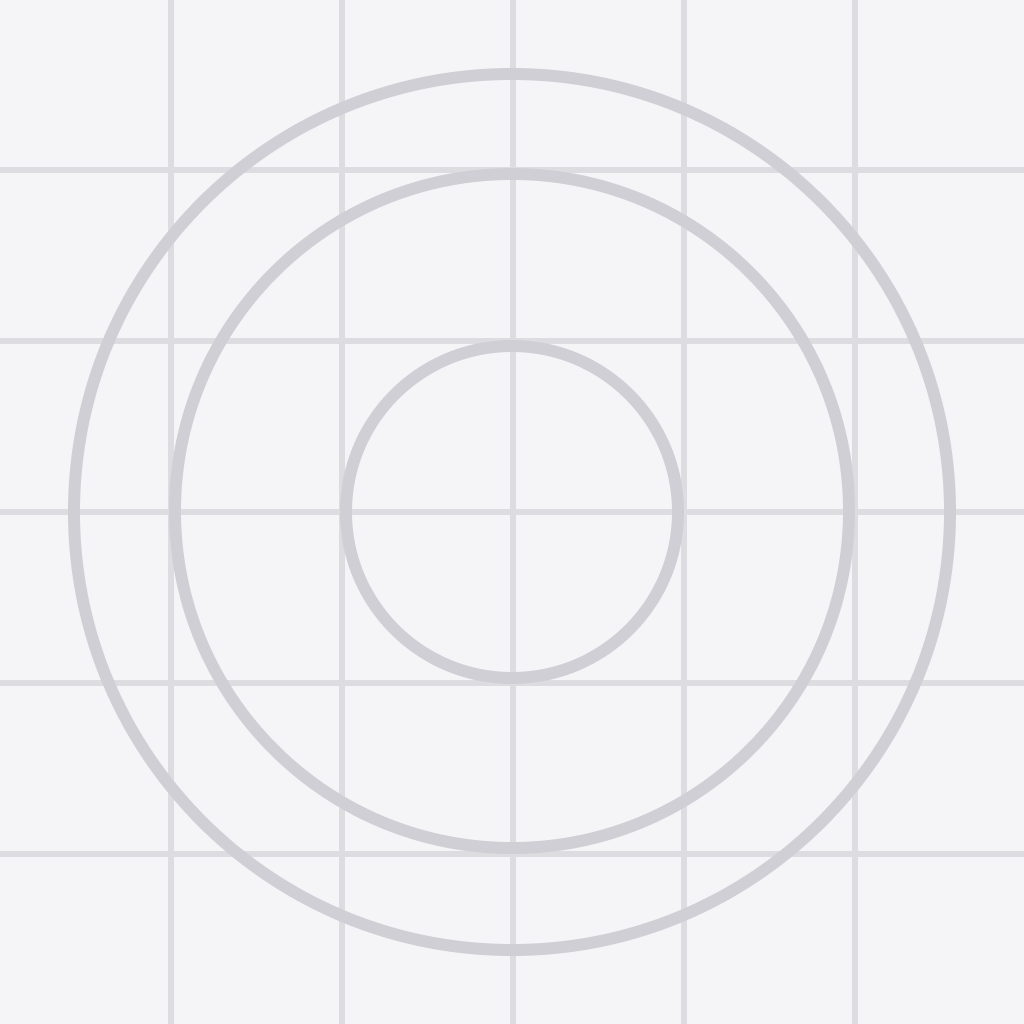
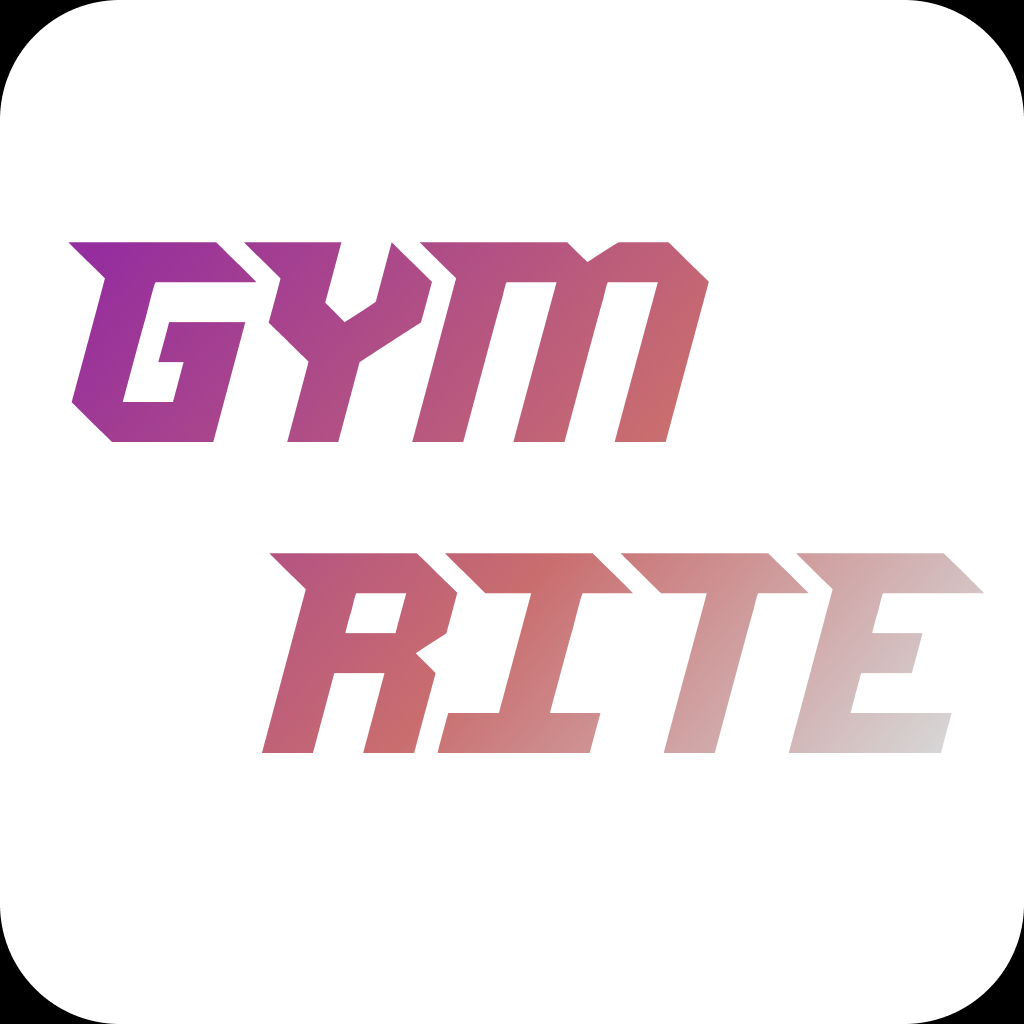
Fully migrated to SQLite. All references to supabase should be removed.

diff --git a/app/workout.js b/app/workout.js
@@ -6,7 +6,8 @@ import StopwatchTimer, {
 import Exercise from '../components/Exercise';
 import { Entypo, } from '@expo/vector-icons'
 import { useLocalSearchParams, router, Link } from 'expo-router';
-import { supabase } from '../utils/supabase'
+import { RFValue } from 'react-native-responsive-fontsize'
+import * as SQLite from 'expo-sqlite'
 
 
 const workout = () => {
@@ -14,6 +15,7 @@ const workout = () => {
   const { workoutName, exerciseList, workoutId } = useLocalSearchParams();
   const [exerciseData, setExerciseData] = useState([]);
   const exercise_list = JSON.parse(exerciseList);
+  const currentDate = new Date();
 
   const onScreenLoad = () => {
     stopwatchTimerRef.current?.play();
@@ -36,14 +38,22 @@ const workout = () => {
   };
 
   async function finishWorkout() {
+    try {
+      const db = await SQLite.openDatabaseAsync('GymRite')
+      await db.execAsync(`
+        CREATE TABLE IF NOT EXISTS workout_history (
+          id INTEGER PRIMARY KEY AUTOINCREMENT NOT NULL,
+          workout_name TEXT NOT NULL,
+          date TEXT NOT NULL,
+          exercise_details TEXT 
+        )
+      `)
+      await db.runAsync(
+        'INSERT INTO workout_history (workout_name, date, exercise_details) VALUES (?,?,?)',
+        [workoutName, currentDate.toISOString(), JSON.stringify(exerciseData)]
+      )
+    } catch (error) { console.log("Error creating workout history table: ", error)}
     router.back();
-    const { error } = await supabase
-      .from('Workout History')
-      .insert({
-        workout_id: workoutId,
-        exercise_details: exerciseData
-      })
-    if ( error ) {console.log(error.message)}
   };
 
   return (
@@ -68,8 +78,8 @@ const workout = () => {
           />
         ))}
       </ScrollView>
-      <TouchableOpacity onPress={finishWorkout}>
-        <Text>Finish workout</Text>
+      <TouchableOpacity onPress={finishWorkout} style={styles.finishBtn}>
+        <Text style={styles.finishText}>Finish workout</Text>
       </TouchableOpacity>
     </View>
   );
@@ -89,6 +99,21 @@ const styles = StyleSheet.create({
   },
   timerContainer: {
     height: 30,
+  },
+  finishBtn: {
+    backgroundColor: "black",
+    width: "60%",
+    borderRadius: 10,
+    height: RFValue(25),
+    justifyContent: "center",
+    alignItems: "center",
+    margin: RFValue(10),
+    alignSelf: "center",
+  },
+  finishText: {
+    color: "white",
+    fontSize: 15,
+    fontWeight: "bold",
   }
 })
 

diff --git a/app/index.js b/app/index.js
@@ -6,6 +6,7 @@ import QuickStart from '../components/QuickStart'
 import {  useFonts, Inter_500Medium, Inter_700Bold } from '@expo-google-fonts/inter'
 import * as SQLite from 'expo-sqlite';
 import { useIsFocused } from '@react-navigation/native';
+import * as Haptics from 'expo-haptics';
 
 SplashScreen.preventAutoHideAsync();
 
@@ -68,7 +69,7 @@ const Dashboard = () => {
       <ScrollView style={{maxHeight: RFValue(180)}}>
         {workouts && workouts.length > 0 && workouts.map((workout)=> {
           return (
-            <TouchableOpacity key={workout.id} onLongPress={()=>{Alert.alert('Delete this workout?')}}>
+            <TouchableOpacity key={workout.id}>
               <QuickStart workout={workout} onRefresh={getWorkouts}/>
             </TouchableOpacity>
           )
@@ -79,8 +80,6 @@ const Dashboard = () => {
             <Text style={styles.addBtnText}>Add Workout</Text>
           </Pressable>
         </Link>
-  
-
     </View>
   )
 }